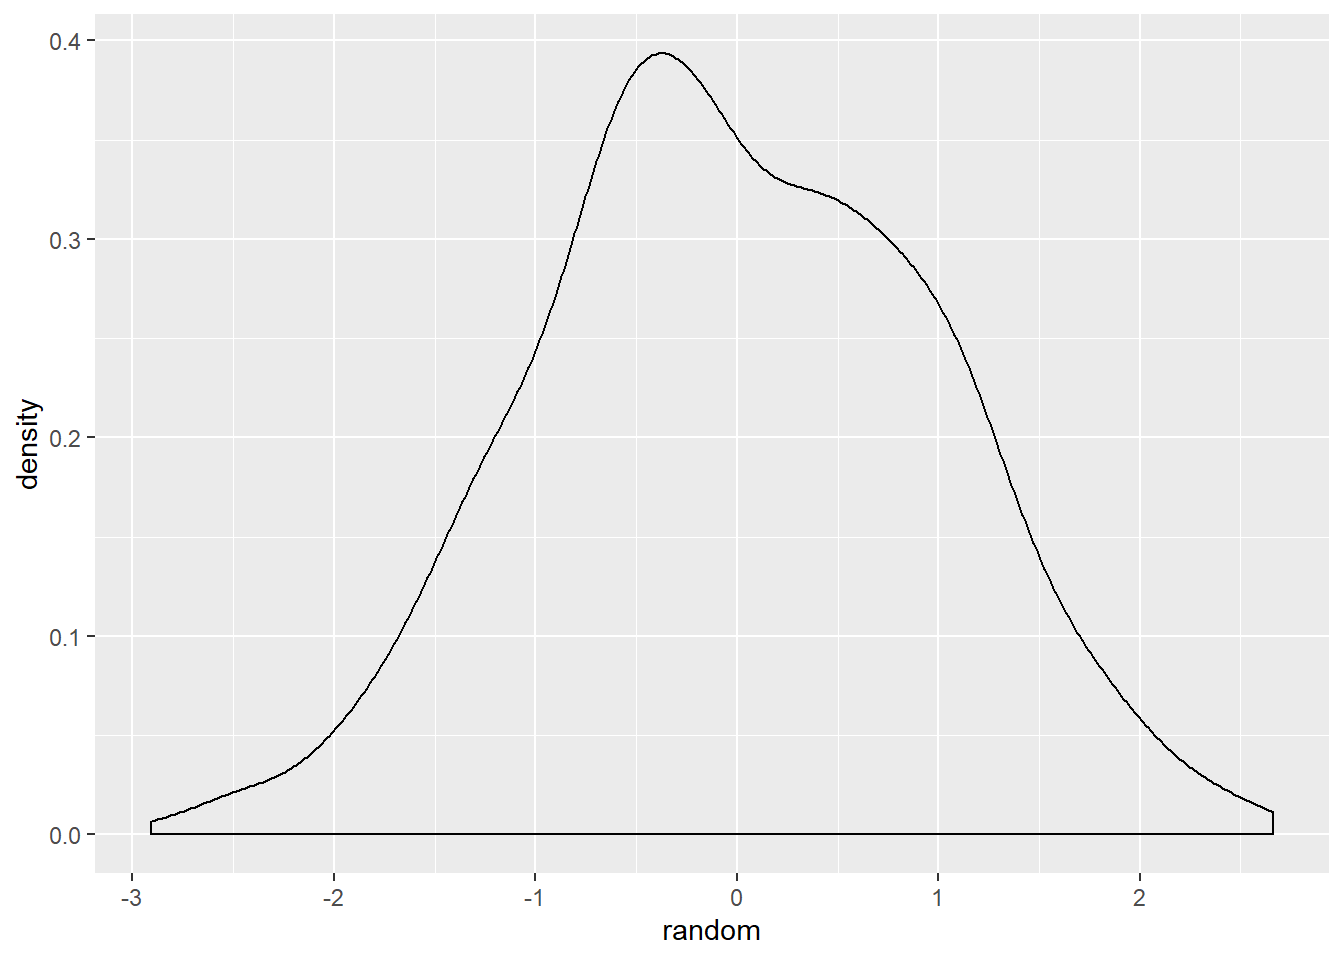
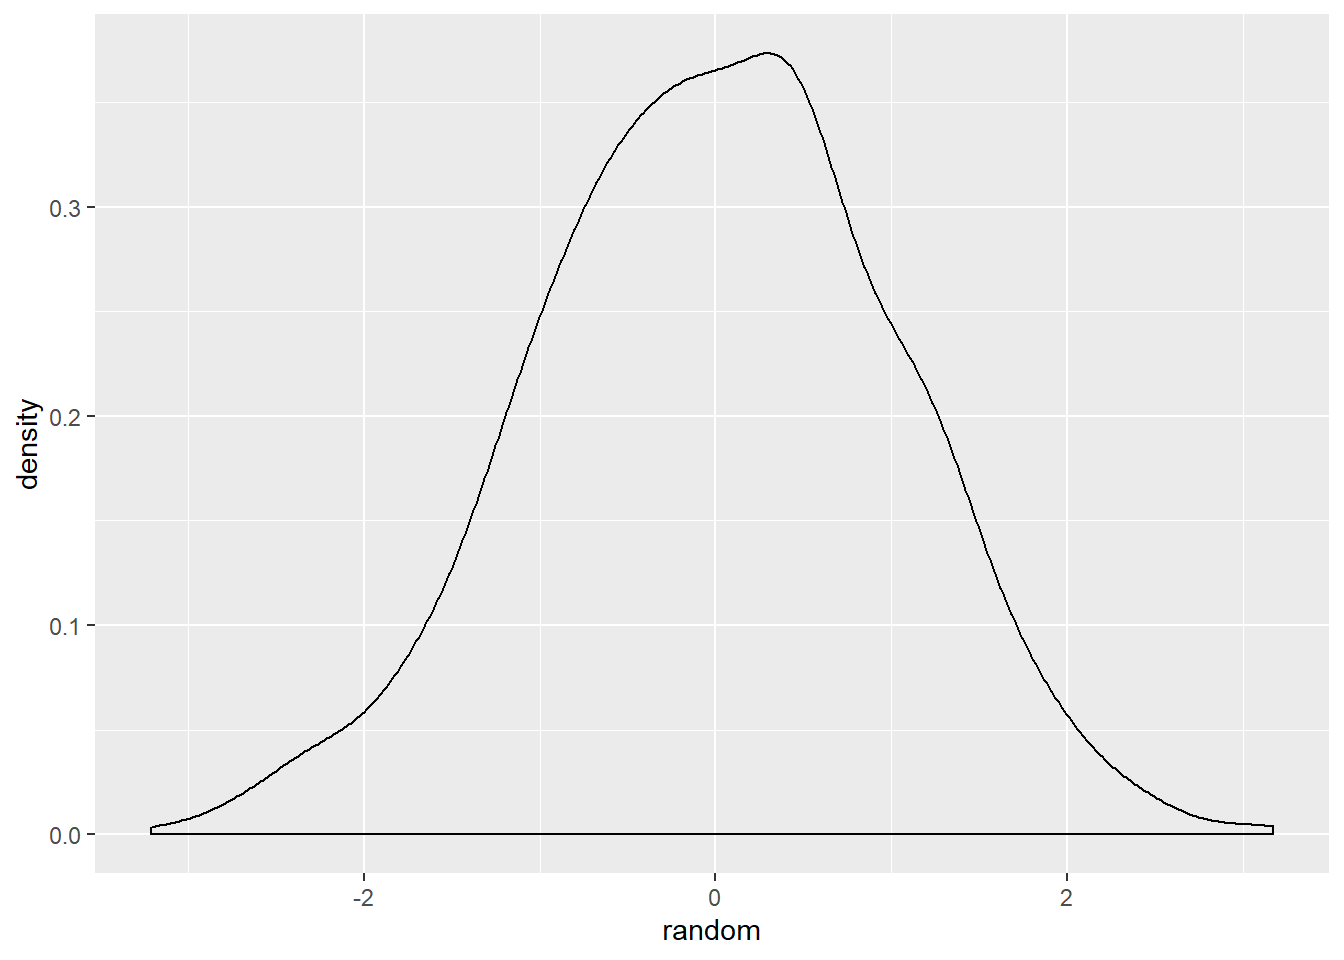
changes to intro

diff --git a/docs/two-variable-plots.html b/docs/two-variable-plots.html
@@ -277,9 +277,8 @@ this session, we will be working with:</p>
 <li><code>ggplot2</code>, which makes pretty pretty data visualisations.</li>
 </ul>
 <div class="sourceCode" id="cb63"><pre class="sourceCode r"><code class="sourceCode r"><span id="cb63-1"><a href="two-variable-plots.html#cb63-1"></a><span class="kw">library</span>(readr)</span>
-<span id="cb63-2"><a href="two-variable-plots.html#cb63-2"></a><span class="kw">library</span>(dplyr)</span></code></pre></div>
-<pre><code>## Warning: package &#39;dplyr&#39; was built under R version 3.6.1</code></pre>
-<div class="sourceCode" id="cb65"><pre class="sourceCode r"><code class="sourceCode r"><span id="cb65-1"><a href="two-variable-plots.html#cb65-1"></a><span class="kw">library</span>(ggplot2)</span></code></pre></div>
+<span id="cb63-2"><a href="two-variable-plots.html#cb63-2"></a><span class="kw">library</span>(dplyr)</span>
+<span id="cb63-3"><a href="two-variable-plots.html#cb63-3"></a><span class="kw">library</span>(ggplot2)</span></code></pre></div>
 <p><br />
 </p>
 <hr />
@@ -356,17 +355,17 @@ quick reactions and good aim must be sporty, and therefore be flexible.</p>
 one group who didn’t have that measured (group 5). That means we only want the first
 20 rows of data.</p>
 <p><em>Question: pick the correct line of code to subset the data to the first 20 rows.</em></p>
-<div class="sourceCode" id="cb66"><pre class="sourceCode r"><code class="sourceCode r"><span id="cb66-1"><a href="two-variable-plots.html#cb66-1"></a><span class="co"># a)</span></span>
-<span id="cb66-2"><a href="two-variable-plots.html#cb66-2"></a>data <span class="op">%&gt;%</span><span class="st"> </span><span class="kw">rows</span>(<span class="kw">c</span>(<span class="dv">1</span>, <span class="dv">20</span>))</span>
-<span id="cb66-3"><a href="two-variable-plots.html#cb66-3"></a></span>
-<span id="cb66-4"><a href="two-variable-plots.html#cb66-4"></a><span class="co"># b)</span></span>
-<span id="cb66-5"><a href="two-variable-plots.html#cb66-5"></a>data <span class="op">%&gt;%</span><span class="st"> </span><span class="kw">slice</span>(<span class="kw">seq</span>(<span class="dv">1</span>, <span class="dv">20</span>, <span class="dv">1</span>))</span>
-<span id="cb66-6"><a href="two-variable-plots.html#cb66-6"></a></span>
-<span id="cb66-7"><a href="two-variable-plots.html#cb66-7"></a><span class="co"># c)</span></span>
-<span id="cb66-8"><a href="two-variable-plots.html#cb66-8"></a>data <span class="op">%&gt;%</span><span class="st"> </span><span class="kw">select</span>(rows <span class="op">&lt;=</span><span class="st"> </span><span class="dv">20</span>)</span>
-<span id="cb66-9"><a href="two-variable-plots.html#cb66-9"></a></span>
-<span id="cb66-10"><a href="two-variable-plots.html#cb66-10"></a><span class="co"># d)</span></span>
-<span id="cb66-11"><a href="two-variable-plots.html#cb66-11"></a>data <span class="op">%&gt;%</span><span class="st"> </span><span class="kw">mutate</span>(<span class="kw">rows</span>(<span class="dv">1</span><span class="op">:</span><span class="dv">20</span>))</span></code></pre></div>
+<div class="sourceCode" id="cb64"><pre class="sourceCode r"><code class="sourceCode r"><span id="cb64-1"><a href="two-variable-plots.html#cb64-1"></a><span class="co"># a)</span></span>
+<span id="cb64-2"><a href="two-variable-plots.html#cb64-2"></a>data <span class="op">%&gt;%</span><span class="st"> </span><span class="kw">rows</span>(<span class="kw">c</span>(<span class="dv">1</span>, <span class="dv">20</span>))</span>
+<span id="cb64-3"><a href="two-variable-plots.html#cb64-3"></a></span>
+<span id="cb64-4"><a href="two-variable-plots.html#cb64-4"></a><span class="co"># b)</span></span>
+<span id="cb64-5"><a href="two-variable-plots.html#cb64-5"></a>data <span class="op">%&gt;%</span><span class="st"> </span><span class="kw">slice</span>(<span class="kw">seq</span>(<span class="dv">1</span>, <span class="dv">20</span>, <span class="dv">1</span>))</span>
+<span id="cb64-6"><a href="two-variable-plots.html#cb64-6"></a></span>
+<span id="cb64-7"><a href="two-variable-plots.html#cb64-7"></a><span class="co"># c)</span></span>
+<span id="cb64-8"><a href="two-variable-plots.html#cb64-8"></a>data <span class="op">%&gt;%</span><span class="st"> </span><span class="kw">select</span>(rows <span class="op">&lt;=</span><span class="st"> </span><span class="dv">20</span>)</span>
+<span id="cb64-9"><a href="two-variable-plots.html#cb64-9"></a></span>
+<span id="cb64-10"><a href="two-variable-plots.html#cb64-10"></a><span class="co"># d)</span></span>
+<span id="cb64-11"><a href="two-variable-plots.html#cb64-11"></a>data <span class="op">%&gt;%</span><span class="st"> </span><span class="kw">mutate</span>(<span class="kw">rows</span>(<span class="dv">1</span><span class="op">:</span><span class="dv">20</span>))</span></code></pre></div>
 <p><br />
 </p>
 <p>You can now use the app to check whether you were right by going to the
@@ -440,12 +439,12 @@ Here’s a relatively big task: using your educated intuition…</p>
 <code>ylim()</code>, <code>ylab()</code>, <code>xlab()</code> and theme functions, and eliminate the arguments
 from the <code>geom_point()</code> function. We’d still get a graph, just plotted with all the
 default arguments and values.</p>
-<div class="sourceCode" id="cb67"><pre class="sourceCode r"><code class="sourceCode r"><span id="cb67-1"><a href="two-variable-plots.html#cb67-1"></a><span class="co"># initialise</span></span>
-<span id="cb67-2"><a href="two-variable-plots.html#cb67-2"></a>plot &lt;-<span class="st"> </span><span class="kw">ggplot</span>(dataSubset, <span class="kw">aes</span>(<span class="dt">x =</span> pballs, <span class="dt">y =</span> ffold)) <span class="op">+</span></span>
-<span id="cb67-3"><a href="two-variable-plots.html#cb67-3"></a><span class="st">    </span><span class="co"># plot a histogram (geom)</span></span>
-<span id="cb67-4"><a href="two-variable-plots.html#cb67-4"></a><span class="st">    </span><span class="kw">geom_point</span>()</span>
-<span id="cb67-5"><a href="two-variable-plots.html#cb67-5"></a></span>
-<span id="cb67-6"><a href="two-variable-plots.html#cb67-6"></a>plot</span></code></pre></div>
+<div class="sourceCode" id="cb65"><pre class="sourceCode r"><code class="sourceCode r"><span id="cb65-1"><a href="two-variable-plots.html#cb65-1"></a><span class="co"># initialise</span></span>
+<span id="cb65-2"><a href="two-variable-plots.html#cb65-2"></a>plot &lt;-<span class="st"> </span><span class="kw">ggplot</span>(dataSubset, <span class="kw">aes</span>(<span class="dt">x =</span> pballs, <span class="dt">y =</span> ffold)) <span class="op">+</span></span>
+<span id="cb65-3"><a href="two-variable-plots.html#cb65-3"></a><span class="st">    </span><span class="co"># plot a histogram (geom)</span></span>
+<span id="cb65-4"><a href="two-variable-plots.html#cb65-4"></a><span class="st">    </span><span class="kw">geom_point</span>()</span>
+<span id="cb65-5"><a href="two-variable-plots.html#cb65-5"></a></span>
+<span id="cb65-6"><a href="two-variable-plots.html#cb65-6"></a>plot</span></code></pre></div>
 <pre><code>## Warning: Removed 1 rows containing missing values (geom_point).</code></pre>
 <p><img src="DSftLS_book_files/figure-html/unnamed-chunk-44-1.png" width="672" /><br />
 </p>
@@ -501,13 +500,13 @@ we can sometimes tell something from them.</p>
 <div id="box-plots" class="section level3">
 <h3><span class="header-section-number">5.7.2</span> BOX PLOTS</h3>
 <p>A more helpful way to look at these two variables is using a box plot:</p>
-<div class="sourceCode" id="cb69"><pre class="sourceCode r"><code class="sourceCode r"><span id="cb69-1"><a href="two-variable-plots.html#cb69-1"></a>plot &lt;-<span class="st"> </span><span class="kw">ggplot</span>(dataSubset, <span class="kw">aes</span>(<span class="dt">x =</span> gender, <span class="dt">y =</span> ffold)) <span class="op">+</span></span>
-<span id="cb69-2"><a href="two-variable-plots.html#cb69-2"></a><span class="st">    </span><span class="kw">geom_boxplot</span>(<span class="dt">color =</span> <span class="st">&#39;goldenrod&#39;</span>, <span class="dt">fill =</span> <span class="st">&#39;papayawhip&#39;</span>) <span class="op">+</span><span class="st"> </span></span>
-<span id="cb69-3"><a href="two-variable-plots.html#cb69-3"></a><span class="st">        </span><span class="co"># some colour names are ridiculous...</span></span>
-<span id="cb69-4"><a href="two-variable-plots.html#cb69-4"></a><span class="st">    </span><span class="kw">ylim</span>(<span class="op">-</span><span class="dv">15</span>, <span class="dv">28</span>) <span class="op">+</span><span class="st"> </span><span class="kw">ylab</span>(<span class="st">&#39;Forward fold&#39;</span>) <span class="op">+</span><span class="st"> </span><span class="kw">xlab</span>(<span class="st">&#39;Gender&#39;</span>) <span class="op">+</span></span>
-<span id="cb69-5"><a href="two-variable-plots.html#cb69-5"></a><span class="st">    </span><span class="kw">theme_minimal</span>()</span>
-<span id="cb69-6"><a href="two-variable-plots.html#cb69-6"></a></span>
-<span id="cb69-7"><a href="two-variable-plots.html#cb69-7"></a>plot</span></code></pre></div>
+<div class="sourceCode" id="cb67"><pre class="sourceCode r"><code class="sourceCode r"><span id="cb67-1"><a href="two-variable-plots.html#cb67-1"></a>plot &lt;-<span class="st"> </span><span class="kw">ggplot</span>(dataSubset, <span class="kw">aes</span>(<span class="dt">x =</span> gender, <span class="dt">y =</span> ffold)) <span class="op">+</span></span>
+<span id="cb67-2"><a href="two-variable-plots.html#cb67-2"></a><span class="st">    </span><span class="kw">geom_boxplot</span>(<span class="dt">color =</span> <span class="st">&#39;goldenrod&#39;</span>, <span class="dt">fill =</span> <span class="st">&#39;papayawhip&#39;</span>) <span class="op">+</span><span class="st"> </span></span>
+<span id="cb67-3"><a href="two-variable-plots.html#cb67-3"></a><span class="st">        </span><span class="co"># some colour names are ridiculous...</span></span>
+<span id="cb67-4"><a href="two-variable-plots.html#cb67-4"></a><span class="st">    </span><span class="kw">ylim</span>(<span class="op">-</span><span class="dv">15</span>, <span class="dv">28</span>) <span class="op">+</span><span class="st"> </span><span class="kw">ylab</span>(<span class="st">&#39;Forward fold&#39;</span>) <span class="op">+</span><span class="st"> </span><span class="kw">xlab</span>(<span class="st">&#39;Gender&#39;</span>) <span class="op">+</span></span>
+<span id="cb67-5"><a href="two-variable-plots.html#cb67-5"></a><span class="st">    </span><span class="kw">theme_minimal</span>()</span>
+<span id="cb67-6"><a href="two-variable-plots.html#cb67-6"></a></span>
+<span id="cb67-7"><a href="two-variable-plots.html#cb67-7"></a>plot</span></code></pre></div>
 <pre><code>## Warning: Removed 1 rows containing non-finite values (stat_boxplot).</code></pre>
 <p><img src="DSftLS_book_files/figure-html/unnamed-chunk-47-1.png" width="672" /><br />
 </p>

diff --git a/docs/r-basics.html b/docs/r-basics.html
@@ -478,11 +478,11 @@ behaviour is sometimes unpredictable so be careful!</p>
 <p>We’ve encountered numeric and character. Let’s create slightly longer vectors:</p>
 <div class="sourceCode" id="cb33"><pre class="sourceCode r"><code class="sourceCode r"><span id="cb33-1"><a href="r-basics.html#cb33-1"></a>num &lt;-<span class="st"> </span><span class="kw">runif</span>(<span class="dv">25</span>)</span>
 <span id="cb33-2"><a href="r-basics.html#cb33-2"></a>num</span></code></pre></div>
-<pre><code>##  [1] 0.58595251 0.33572472 0.81083389 0.04977226 0.46986659 0.74851930
-##  [7] 0.18625934 0.74671800 0.13235113 0.24986013 0.79853424 0.07966480
-## [13] 0.30266173 0.78570408 0.08015830 0.18062510 0.51479536 0.31381729
-## [19] 0.82290567 0.64137750 0.19336279 0.10831082 0.26988071 0.94728645
-## [25] 0.85418931</code></pre>
+<pre><code>##  [1] 0.46549737 0.82926565 0.37793249 0.61381802 0.22191427 0.46891639
+##  [7] 0.93971739 0.55927058 0.07534986 0.34611511 0.38140071 0.52984743
+## [13] 0.66529627 0.59485987 0.77321731 0.42701857 0.98217449 0.55905669
+## [19] 0.51240956 0.27400350 0.31608913 0.29686753 0.98289459 0.12653030
+## [25] 0.38534525</code></pre>
 <div class="sourceCode" id="cb35"><pre class="sourceCode r"><code class="sourceCode r"><span id="cb35-1"><a href="r-basics.html#cb35-1"></a>char &lt;-<span class="st"> </span>LETTERS[<span class="dv">1</span><span class="op">:</span><span class="dv">25</span>]</span>
 <span id="cb35-2"><a href="r-basics.html#cb35-2"></a>char</span></code></pre></div>
 <pre><code>##  [1] &quot;A&quot; &quot;B&quot; &quot;C&quot; &quot;D&quot; &quot;E&quot; &quot;F&quot; &quot;G&quot; &quot;H&quot; &quot;I&quot; &quot;J&quot; &quot;K&quot; &quot;L&quot; &quot;M&quot; &quot;N&quot; &quot;O&quot; &quot;P&quot; &quot;Q&quot; &quot;R&quot; &quot;S&quot;
@@ -496,24 +496,24 @@ contains the alphabet.<br />
 <p>It’s important to understand how different vectors ‘work’, but most of this
 experience comes with time. Here’s an example:</p>
 <div class="sourceCode" id="cb37"><pre class="sourceCode r"><code class="sourceCode r"><span id="cb37-1"><a href="r-basics.html#cb37-1"></a>num <span class="op">*</span><span class="st"> </span><span class="dv">10</span></span></code></pre></div>
-<pre><code>##  [1] 5.8595251 3.3572472 8.1083389 0.4977226 4.6986659 7.4851930 1.8625934
-##  [8] 7.4671800 1.3235113 2.4986013 7.9853424 0.7966480 3.0266173 7.8570408
-## [15] 0.8015830 1.8062510 5.1479536 3.1381729 8.2290567 6.4137750 1.9336279
-## [22] 1.0831082 2.6988071 9.4728645 8.5418931</code></pre>
+<pre><code>##  [1] 4.6549737 8.2926565 3.7793249 6.1381802 2.2191427 4.6891639 9.3971739
+##  [8] 5.5927058 0.7534986 3.4611511 3.8140071 5.2984743 6.6529627 5.9485987
+## [15] 7.7321731 4.2701857 9.8217449 5.5905669 5.1240956 2.7400350 3.1608913
+## [22] 2.9686753 9.8289459 1.2653030 3.8534525</code></pre>
 <div class="sourceCode" id="cb39"><pre class="sourceCode r"><code class="sourceCode r"><span id="cb39-1"><a href="r-basics.html#cb39-1"></a>num <span class="op">-</span><span class="st"> </span><span class="kw">seq</span>(<span class="dv">1</span>, <span class="dv">25</span>, <span class="dv">1</span>)</span></code></pre></div>
-<pre><code>##  [1]  -0.4140475  -1.6642753  -2.1891661  -3.9502277  -4.5301334  -5.2514807
-##  [7]  -6.8137407  -7.2532820  -8.8676489  -9.7501399 -10.2014658 -11.9203352
-## [13] -12.6973383 -13.2142959 -14.9198417 -15.8193749 -16.4852046 -17.6861827
-## [19] -18.1770943 -19.3586225 -20.8066372 -21.8916892 -22.7301193 -23.0527136
-## [25] -24.1458107</code></pre>
+<pre><code>##  [1]  -0.5345026  -1.1707343  -2.6220675  -3.3861820  -4.7780857  -5.5310836
+##  [7]  -6.0602826  -7.4407294  -8.9246501  -9.6538849 -10.6185993 -11.4701526
+## [13] -12.3347037 -13.4051401 -14.2267827 -15.5729814 -16.0178255 -17.4409433
+## [19] -18.4875904 -19.7259965 -20.6839109 -21.7031325 -22.0171054 -23.8734697
+## [25] -24.6146548</code></pre>
 <div class="sourceCode" id="cb41"><pre class="sourceCode r"><code class="sourceCode r"><span id="cb41-1"><a href="r-basics.html#cb41-1"></a>num <span class="op">*</span><span class="st"> </span><span class="kw">c</span>(<span class="dv">10</span>, <span class="dv">-10</span>)</span></code></pre></div>
 <pre><code>## Warning in num * c(10, -10): longer object length is not a multiple of shorter
 ## object length</code></pre>
-<pre><code>##  [1]  5.8595251 -3.3572472  8.1083389 -0.4977226  4.6986659 -7.4851930
-##  [7]  1.8625934 -7.4671800  1.3235113 -2.4986013  7.9853424 -0.7966480
-## [13]  3.0266173 -7.8570408  0.8015830 -1.8062510  5.1479536 -3.1381729
-## [19]  8.2290567 -6.4137750  1.9336279 -1.0831082  2.6988071 -9.4728645
-## [25]  8.5418931</code></pre>
+<pre><code>##  [1]  4.6549737 -8.2926565  3.7793249 -6.1381802  2.2191427 -4.6891639
+##  [7]  9.3971739 -5.5927058  0.7534986 -3.4611511  3.8140071 -5.2984743
+## [13]  6.6529627 -5.9485987  7.7321731 -4.2701857  9.8217449 -5.5905669
+## [19]  5.1240956 -2.7400350  3.1608913 -2.9686753  9.8289459 -1.2653030
+## [25]  3.8534525</code></pre>
 <p><br />
 </p>
 <p><em>Question: what’s happened for each of those lines of code? What does the Warning
@@ -548,9 +548,9 @@ really. They basically indicate whether something is <code>TRUE</code> or <code>
 usually relate to a question we ask of our data:</p>
 <div class="sourceCode" id="cb47"><pre class="sourceCode r"><code class="sourceCode r"><span id="cb47-1"><a href="r-basics.html#cb47-1"></a>over0<span class="fl">.5</span> &lt;-<span class="st"> </span>num <span class="op">&gt;</span><span class="st"> </span><span class="fl">0.5</span></span>
 <span id="cb47-2"><a href="r-basics.html#cb47-2"></a>over0<span class="fl">.5</span></span></code></pre></div>
-<pre><code>##  [1]  TRUE FALSE  TRUE FALSE FALSE  TRUE FALSE  TRUE FALSE FALSE  TRUE FALSE
-## [13] FALSE  TRUE FALSE FALSE  TRUE FALSE  TRUE  TRUE FALSE FALSE FALSE  TRUE
-## [25]  TRUE</code></pre>
+<pre><code>##  [1] FALSE  TRUE FALSE  TRUE FALSE FALSE  TRUE  TRUE FALSE FALSE FALSE  TRUE
+## [13]  TRUE  TRUE  TRUE FALSE  TRUE  TRUE  TRUE FALSE FALSE FALSE  TRUE FALSE
+## [25] FALSE</code></pre>
 <p><br />
 </p>
 <p>The result is information on which of your random data are higher than 0.5.<br />

diff --git a/docs/index.html b/docs/index.html
@@ -287,7 +287,8 @@ Lucida Console (my personal favourite at the moment is
 <a href="https://fonts.google.com/specimen/Space+Mono">Space Mono</a>). The reason for this
 is that all the letters line up vertically, which is far easier to read.</p>
 <p><em>Code chunks</em> are collections of lines of code which do a certain thing. There’s
-an example of a code chunk below. It’s just for you to see what code chunks and
+an example of a code chunk below, and its common outputs you’ll see in these
+worksheets: a plot, and some text. It’s just for you to see what code chunks and
 their outputs look like, so you don’t need to understand it just yet! Here’s
 what it does:</p>
 <ul>
@@ -302,14 +303,14 @@ of course should be approximately zero and one respectively):</li>
 <span id="cb1-3"><a href="index.html#cb1-3"></a><span class="st">    </span><span class="kw">geom_density</span>()</span></code></pre></div>
 <p><img src="DSftLS_book_files/figure-html/unnamed-chunk-2-1.png" width="672" /></p>
 <div class="sourceCode" id="cb2"><pre class="sourceCode r"><code class="sourceCode r"><span id="cb2-1"><a href="index.html#cb2-1"></a><span class="kw">mean</span>(random)</span></code></pre></div>
-<pre><code>## [1] -0.004539589</code></pre>
+<pre><code>## [1] -0.005939837</code></pre>
 <div class="sourceCode" id="cb4"><pre class="sourceCode r"><code class="sourceCode r"><span id="cb4-1"><a href="index.html#cb4-1"></a><span class="kw">sd</span>(random)</span></code></pre></div>
-<pre><code>## [1] 0.9901419</code></pre>
+<pre><code>## [1] 1.019844</code></pre>
 <p> 
-<em>Scripts</em> are files which contain many chunks of code.</p>
-<p>Running R code results in many outputs, especially text outputs (such as th)</p>
+<em>Scripts</em> are files which contain many chunks of code.<br />
+ </p>
 <p>The worksheets also include instructional videos (a couple of examples are
-found further down on this page) text and plots, and interactive
+found further down on this page), and interactive
 quizzes. Each chapter is arranged like this:</p>
 <ul>
 <li><strong>Part 1</strong> of each chapter uses a web application I wrote to help teach analysis
